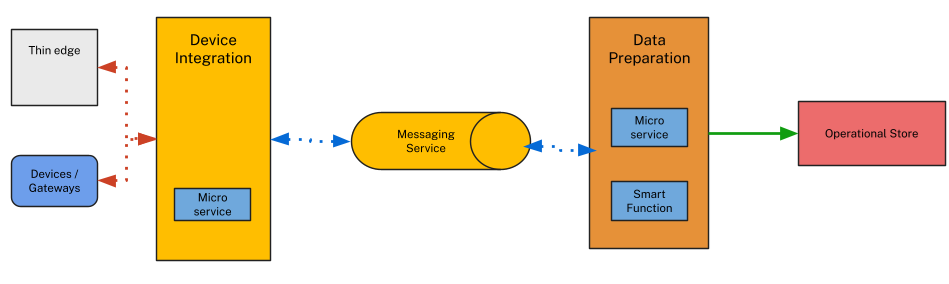
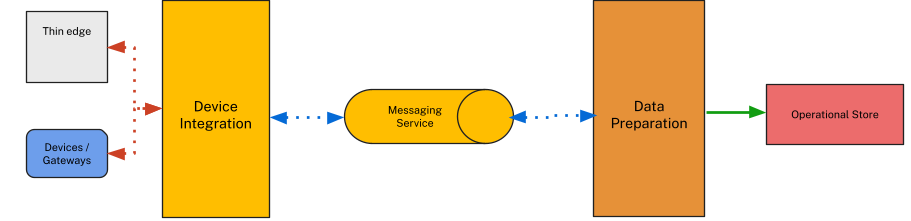
smart function details added

Changed region(s): [[0.0, 0.0, 1.0, 1.0]]

diff --git a/content/data-preparation/data-preparation-introduction.md b/content/data-preparation/data-preparation-introduction.md
@@ -12,7 +12,7 @@ sector:
 
 The Data Preparation application provides a modern, **AI-first** environment for creating and managing data transformation logic to help you convert raw device data into the Cumulocity [data model](/concepts/domain-model). As IoT devices often communicate in various formats (from standard JSON to more complex structures), Data Preparation acts as a bridge that ensures your data is standardized, corrected, and ready for use across the platform and downstream.
 
-Data Preparation uses Smart Functions - modular pieces of logic that independently process incoming messages to generate one or more Cumulocity-compliant outputs.
+Data Preparation uses smart functions - modular pieces of logic that independently process incoming messages to generate one or more Cumulocity-compliant outputs. see [smart functions](/concepts/smart-function-concept/) concept details.
 
 **Why use Data Preparation?**
 
@@ -22,13 +22,13 @@ Data Preparation empowers you to:
 * Use a conversational AI chat interface to describe your business context and automatically generate the necessary transformation code in a Smart Function.
 * Perform real-time calculations (e.g. converting Fahrenheit to Celsius) or correct values based on predefined normal ranges.
 * Automatically map and create devices based on external IDs found in the payload, source client ID, or topic path.
-* Scale with support for high-volume data ingestion, as Data Preparation is built on high-performant, horizontally scalable infrastructure.
+* Scale with support for high-volume data ingestion, as Data Preparation is built on high-performant, scalable infrastructure.
 
 
 **Key Capabilities**
 
 * AI-First Experience – the primary user interface is an AI assistant that writes and optimizes JavaScript-based transformation logic based on your prompts (leveraging the [AI Agent Manager](/ai/aim-introduction/)).
-* Build-in Code Editor – a simplified IDE is available to manually view, edit, or paste pre-written logic.
+* Built-in Code Editor – a simplified IDE is available to manually view, edit, or paste pre-written logic.
 * Testing & Validation – run tests using sample data (either manually uploaded or captured live from an MQTT topic) with a visual comparison.
 * Integrated Deployment – once a Rule is active, it runs continuously as data is posted to the subscribed [MQTT Service](/device-integration/mqtt-service/) topics.
 
@@ -45,66 +45,30 @@ The diagram below illustrates the Dataprep Service flows within a tenant.
     <img width="80%" src="/images/data-preparation/datprep_architecture.png" alt="Dataprep Service architecture">
 </p>
 
-The architecture consists of the following components:
+ Data Preparation receives raw device messages, applies user-defined transformation logic, and forwards the resulting Cumulocity objects to the platform for persistence and use by applications.
 
-**Thin edge**
+ Internally, Data Preparation consists of two layers:
 
-A lightweight runtime that runs on resource-constrained devices and gateways, enabling local data processing and forwarding to Cumulocity.
+* **Data Plane** — an Apama-based high-throughput runtime that receives incoming messages, evaluates active Rules, and executes Smart Functions. It is designed for high-volume, low-latency processing and scales.
 
-**Devices / Gateways**
+* **Control Plane** — a Java-based management layer that handles the full lifecycle of Rules and Smart Functions. Changes made in the application — such as activating or updating a Rule — are applied by the Control Plane to the Data Plane at runtime without requiring a restart.
 
-Physical devices or gateway hardware that collect sensor data and communicate with the platform using supported protocols.
+## How Data Preparation works {#how-it-works}
 
-**Device Integration**
+Data Preparation listens for incoming device messages on [MQTT Service](/device-integration/mqtt-service/) topics. When a message arrives, it evaluates all active Rules subscribed to that topic. Each matching Rule runs its smart functions against the payload and the resulting Cumulocity objects — measurements, events, alarms, or managed objects — are forwarded to the platform and persisted.
 
-Handles the connection and communication between external devices and the platform. It includes a microservice that translates device-specific protocols and forwards data to the Messaging Service.
+Multiple active Rules can subscribe to the same topic and execute independently. A single message can trigger multiple Rules, and each Rule can produce multiple output objects.
 
-**Messaging Service**
-
-The central message broker that decouples data producers (Device Integration) from data consumers (Data Preparation). It queues and routes incoming messages to the Data Preparation service.
-
-**Data Preparation**
-
-Processes incoming messages using the following sub-components:
-
-- **Microservice** – the core runtime that orchestrates message processing, manages the lifecycle of Smart Functions, and forwards transformed data to the Operational Store.
-- **Smart Function** – a modular, user-defined piece of JavaScript logic that transforms raw device payloads into Cumulocity-compliant objects such as measurements, events, alarms, and inventory entries.
-
-**Operational Store**
-
-The Cumulocity platform data store where transformed and validated data is persisted and made available for applications, dashboards, and downstream integrations.
+## Key concepts {#key-concepts}
 
 ### Smart Functions {#smart-functions}
 
-A Smart Function is a single function exported from an ECMAScript file with a standard name and signature. It is executed by the platform in response to events — such as incoming messages, requests, or other inputs — as configured for the given Smart Function.
-
-Smart Functions provide a consistent, code-based micro-extension model across the platform. They are designed for cases where applying processing logic inside a component is necessary, but where a full custom microservice would be too heavy-weight. Smart Functions are written in ECMAScript 6 (ES6), a well-established language with a mature developer ecosystem and strong support from generative AI tools.
-
-A Smart Function uses one of the following signatures:
-
-```js
-export function onMessage(message, context);
-export async function onMessage(message, context);
-```
-
-The `context` object is provided by the platform and exposes implementation-specific members and methods. It also includes a `runtime` string that identifies the component the Smart Function is running within.
-
-Smart Functions have the following key characteristics:
-
-* **Sandboxed** — each Smart Function runs in an isolated environment. Access to other tenant state, the host filesystem, sockets, and uncontrolled CPU or memory usage is restricted.
-* **Stateless by design** — Smart Functions must not rely on global state. The platform may reinstantiate or run multiple instances of a Smart Function at any time. Where state persistence is needed, the `context` object provides dedicated methods.
-* **ECMAScript 6** — Smart Functions are deployed as single ES6 files. TypeScript is supported as a development language and can be transpiled to ES6 for deployment.
-* **AI-friendly** — the ECMAScript language choice and the TypeScript API provided with each implementation are optimized for use with generative AI authoring tools, both inside and outside the platform.
+Smart functions provide a lightweight way to extend the functionality of Cumulocity across multiple components. They let you write small Javascript functions that run in a secure, isolated environment—more powerful than configuration but much simpler than building a full microservice. For details, see [Overview](/concepts/smart-function-concept/) and its Function signature etc.
 
 ### Rules {#rules}
 
-A Rule is the deployable unit in Data Preparation that combines a Smart Function with its configuration and activation state. When a Rule is active, it runs continuously and processes every incoming message posted to its subscribed MQTT topic, applying the transformation logic defined in its Smart Function to produce Cumulocity-compliant output.
+A Rule is the deployable unit in Data Preparation. It pairs a Smart Function with an MQTT topic subscription and an activation state. When active, a Rule processes every message posted to its subscribed topic. Rules can be created, tested with sample data, activated, deactivated, and deleted through the Data Preparation application.
 
-A Rule consists of the following:
+For details, see [Rules](#).
 
-* **Smart Function** — the ECMAScript transformation logic that processes each incoming message.
-* **Topic subscription** — the MQTT topic the Rule listens on for incoming device messages.
-* **Activation state** — a Rule can be active (processing live data) or inactive (paused). Only active Rules consume platform resources.
-
-Rules are managed through the Data Preparation application, where you can create, test, activate, deactivate, and delete them. You can test a Rule using sample payloads before activating it in production.
 
